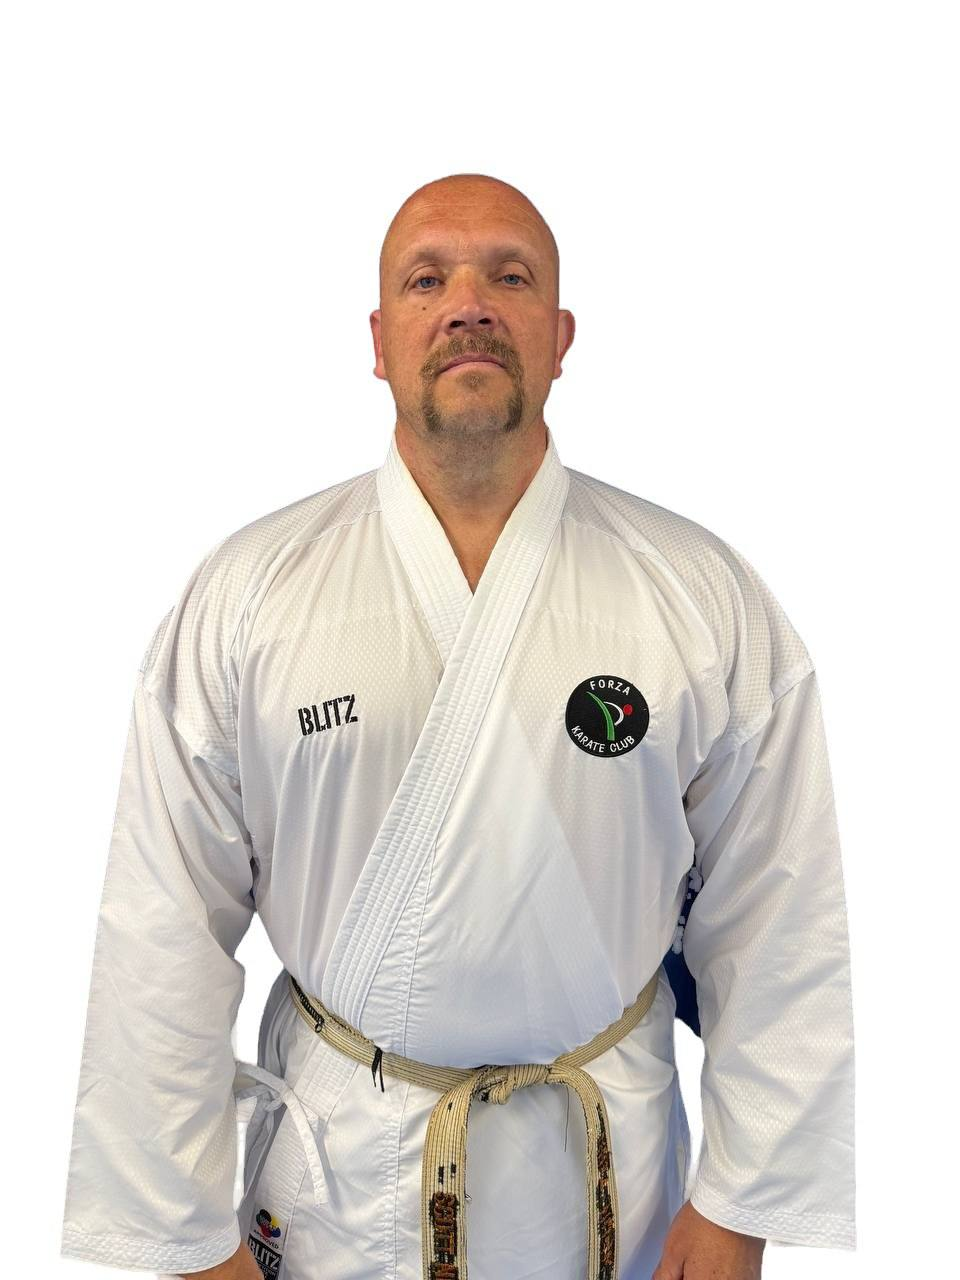
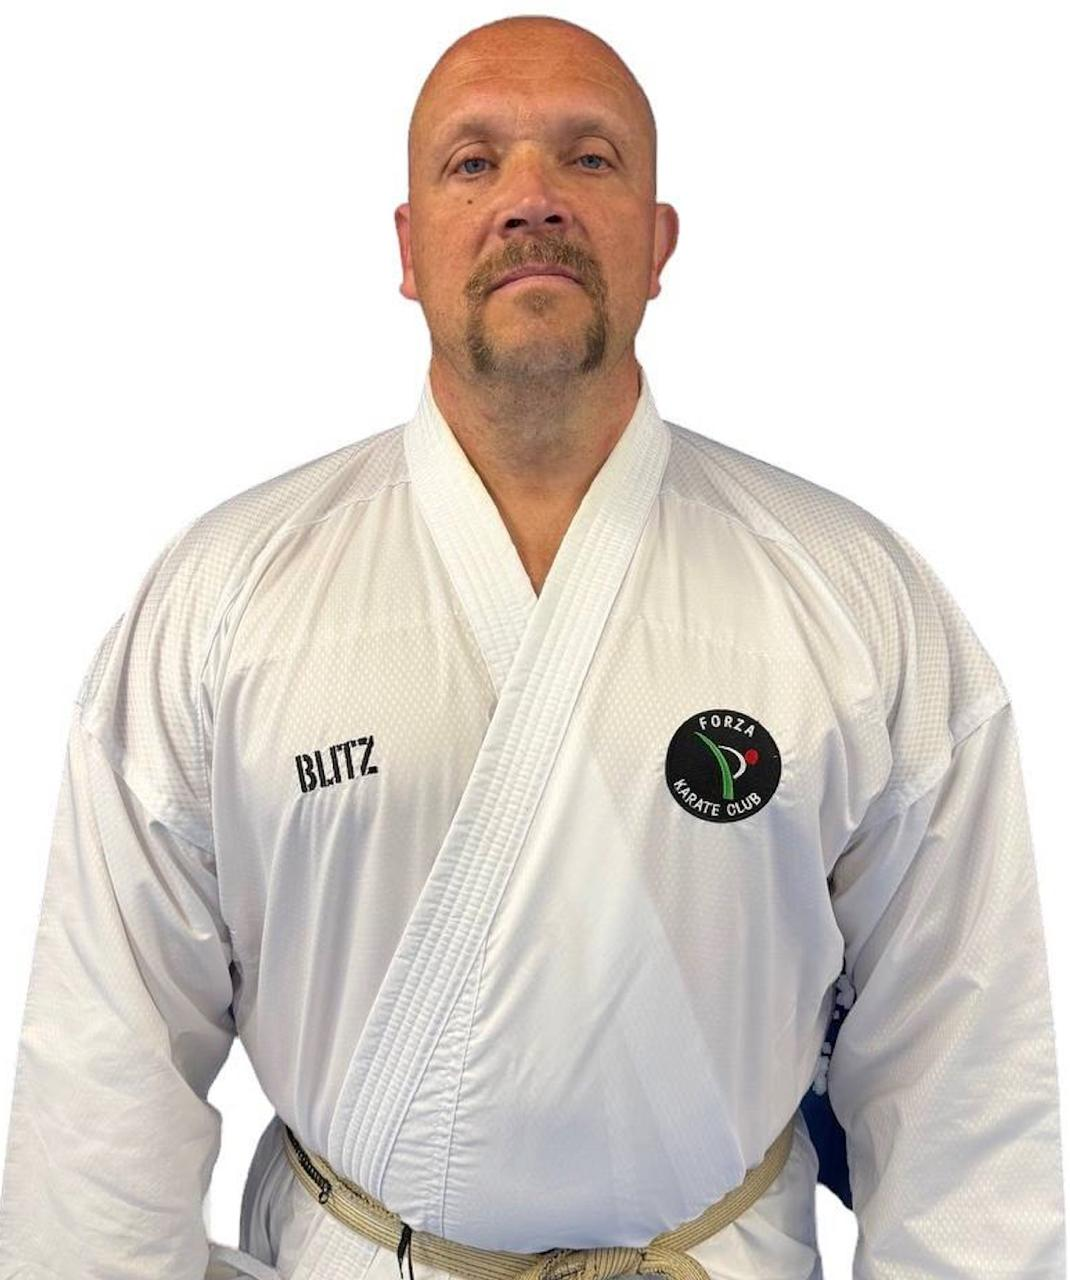
Update Scott Nicholls instructor photo

diff --git a/app/instructors/page.tsx b/app/instructors/page.tsx
@@ -20,7 +20,7 @@ const instructors = [
     grade: '6th Dan',
     role: 'Head Instructor',
     dojo: 'Rayleigh & Upminster',
-    photo: '/instructors/anthoni-everitt.jpg',
+    photo: '/instructors/anthoni-everitt.png',
     bio: 'Dedicated and accomplished karate coach with four decades of experience in traditional and sport karate. Proven record of developing athletes from grassroots to world-class level. Renowned for mentoring national and international champions, promoting karate through community-based initiatives and fostering discipline, technical excellence and mental resilience. Skilled in designing structured training programmes for athletes of all ages and abilities.\n\nFormer England Assistant Coach\nFormer Southern Regional Coach',
   },
   {